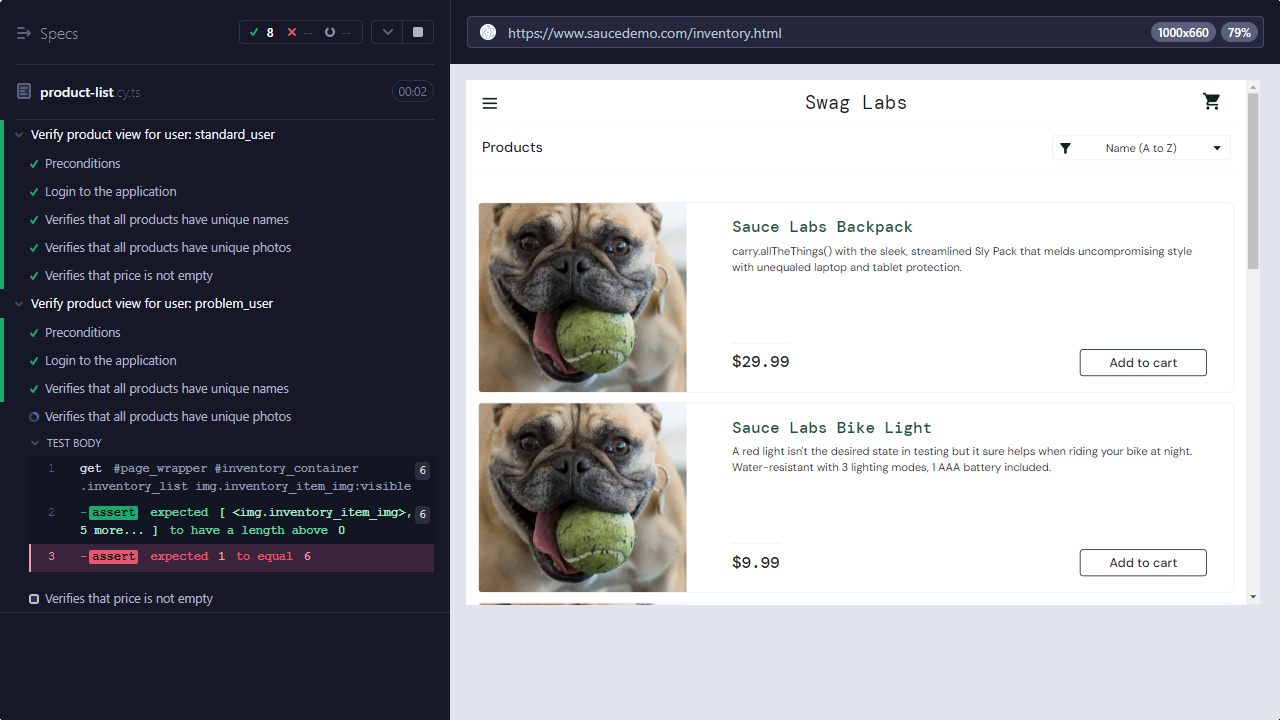
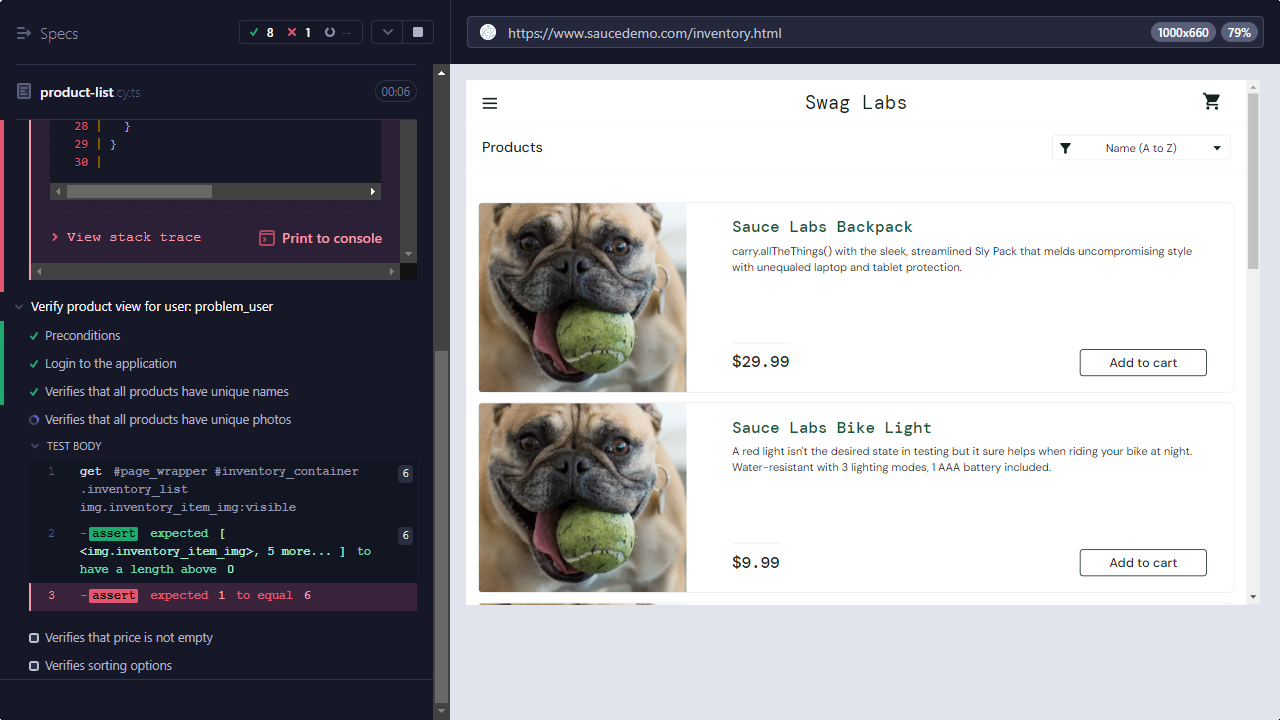
Added sorting to product-list (if available)

Changed region(s): [[0.0, 0.0917, 0.375, 1.0]]

diff --git a/saucedemo-e2e/e2e/product-list.cy.ts b/saucedemo-e2e/e2e/product-list.cy.ts
@@ -6,12 +6,12 @@ import { ProductList } from '../cypress/support/product-list.po';
     const login = new Login();
     const productList = new ProductList();
 
-    it('Preconditions', () => {
+    beforeEach(() => {
       cy.viewport(1920, 1080);
-      cy.visit('/');
     });
 
     it('Login to the application', () => {
+      cy.visit('/');
       cy.title().should('include', 'Swag Labs');
       login.loginToWebsite(username);
       login.loginOk();
@@ -27,6 +27,10 @@ import { ProductList } from '../cypress/support/product-list.po';
 
     it('Verifies that price is not empty', () => {
       productList.priceNotEmpty();
+    });
+
+    it('Verifies sorting options', () => {
+      productList.selectSorting();
     });
   });
 });

diff --git a/saucedemo-e2e/cypress/support/product-list.po.ts b/saucedemo-e2e/cypress/support/product-list.po.ts
@@ -22,4 +22,15 @@ export class ProductList {
         .should('match', /\$\s*\d/);
     });
   }
+
+  selectSorting() {
+    cy.fixture('sortingTypes.json').then((data) => {
+      const keys: string[] = Object.keys(data);
+      for (const key of keys) {
+        const option = data[key];
+        cy.get('[data-test="product-sort-container"]').select(option.text);
+        cy.get('[data-test="product-sort-container"]').should('have.value', option.value);
+      }
+    });
+  }
 }

diff --git a/saucedemo-e2e/test-cases.md b/saucedemo-e2e/test-cases.md
@@ -15,6 +15,8 @@ Verify that the product list is displayed correctly based on the following crite
 - Each product has a unique photo and name
 - Each product has a price
 
+Verify that product list have option to sort products (with correct options). TODO: sprawdzic
+
 ### scenario-1 - purchase-happy-path
 
 Basic scenario for buying products:
@@ -43,6 +45,6 @@ Basic scenario for buying products:
 Note:
 
 - Item and prices should be stored in fixtures for possible change in the future.
-- First name, last name and zip/postal code should be randomizes every time to avoid burning out tests.
-- One of existing tests WILL NOT pass because there he catch problems (user with errors)
-- Tests could be reorganized to have support files per specific site, since they are used in multiple test cases.
+- First name, last name and zip/postal code should be randomizes every time to avoid burning out tests (now they are not).
+- One of existing tests WILL NOT pass because there is problem - it's OK (user with errors)
+- Tests could be reorganized to support files per specific site, since they are used in multiple test cases.
